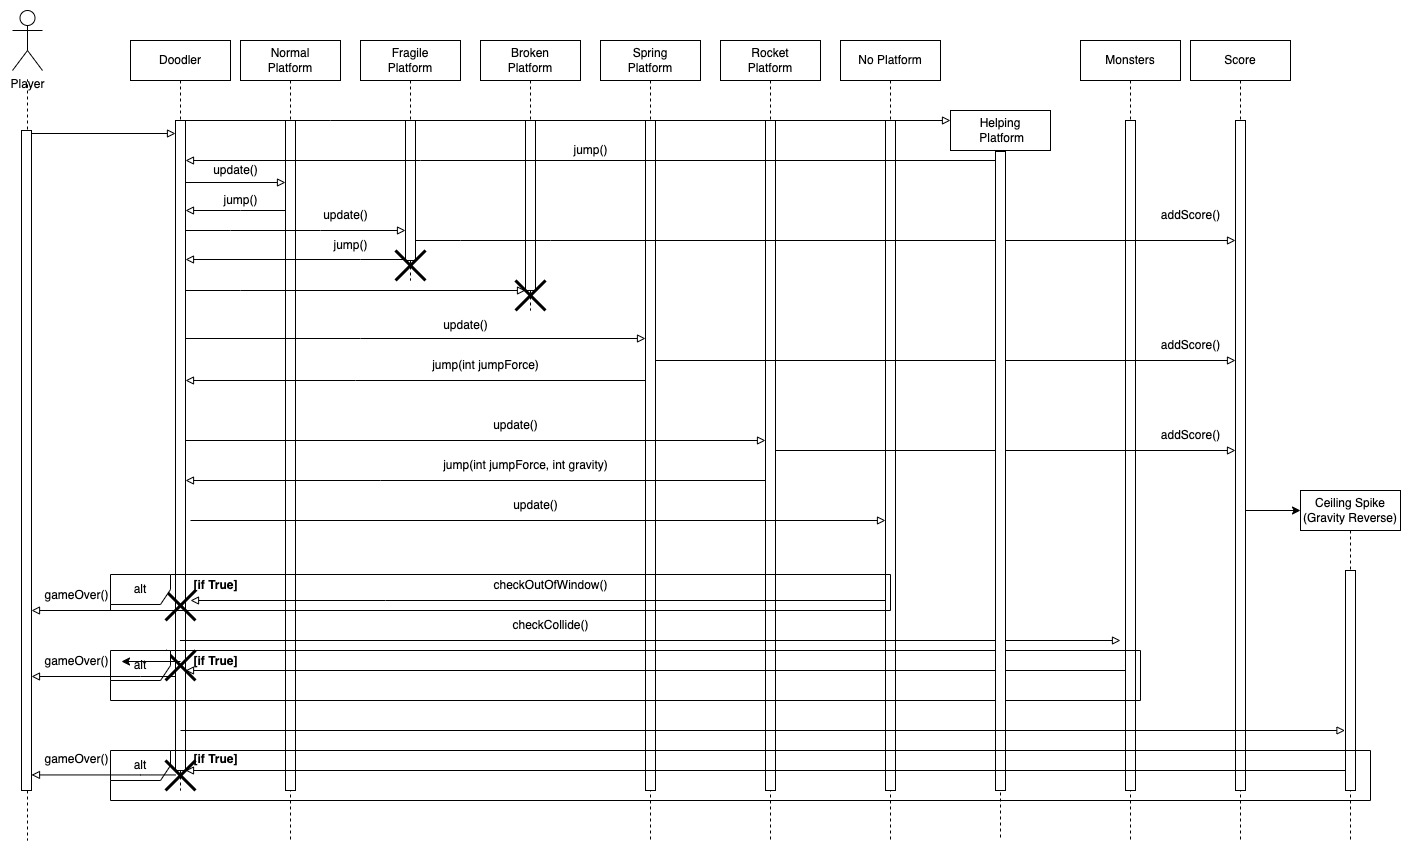
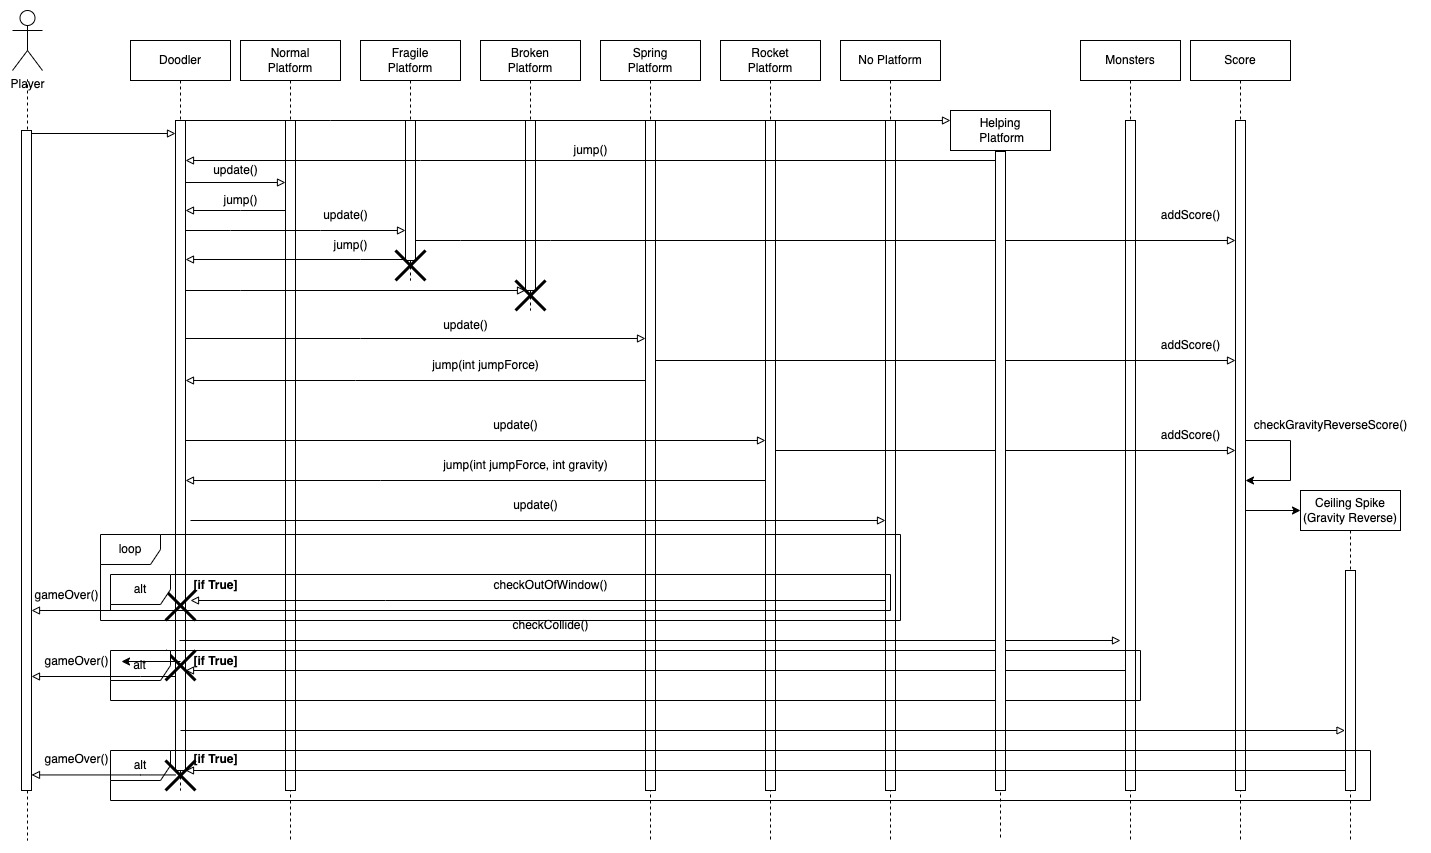
added design part of report

diff --git a/README.md b/README.md
@@ -57,15 +57,59 @@ Overall, the early stages of design were crucial in helping us to refine our gam
 
 # Design
 
+## System Architecture
+The game’s architecture consists of three main components: the Game Manager, User Interface, and the Game Elements. These components work together to create a cohesive and engaging gaming experience.
+
+<strong>Game Manager</strong>
+<br>
+Our "main" file acts as a Game Manager. The Game Manager is responsible for managing the overall game flow, including updating the game state, generating new game elements, and handling user input. It plays a crucial role in ensuring that the game runs smoothly and responds to user actions in a timely and appropriate manner.
+
+For user input, we decided to use the left and right arrow keys as the main moving keys, as they are more intuitive than other options. Additionally, the 'z' key can be used to spawn a helping platform under the Doodler, and the 'space' key can be used to restart the game when it's game over. These user inputs are carefully chosen to provide a seamless and enjoyable gaming experience.
+
+<strong>User Interface</strong>
+<br>
+We have five classes as our user interface components: start page, setting window, help window, pause window, and end page. The User Interface is designed to be easy to use and visually appealing, providing a seamless and enjoyable gaming experience for the user.
+
+While acting as game manager, the "main" also plays a role in rendering the main game screen, which displays the player's score, as well as buttons for pausing the game. The start page consists of a help window button and a setting window button at the left and right top corner, respectively. It displays the game's title, choices of character, and a start button. The help window provides instructions for users to understand the game, while users can choose level difficulty and switch to 2-player mode in the setting window. In the end page, the final score is shown in single player mode, whereas in two-player mode, the winner is shown.
+
+<strong>Game Elements</strong>
+<br>
+The Game Elements component includes all of the game objects, such as Doodler, monsters, and platforms. Each of these game elements is implemented as a separate class, with its own set of properties and methods. These elements are carefully designed to be visually appealing and challenging, providing a fun and engaging gaming experience for the user.
+
+The Doodler is the main character of the game, and is designed to be easy to control and visually appealing. The monsters and platforms provide a challenging obstacle for the Doodler to overcome, adding an element of excitement and difficulty to the game.
+
+## Class Diagram
+
 <figure>
   <img src="static/DoodleJump_class_diagram_2.jpg" alt="class diagram" style="width:100%">
   <figcaption>Class Diagram</figcaption>
 </figure>
 
+To create a clear and organized system for Doodle Jump, we've designed a class diagram that includes different pages and windows as classes to help players navigate and understand the game.
+
+First, we have the Start Page class, which players see when they open the game. This class allows players to choose their character and provides access to two auxiliary windows: the Setting Window and the Help Window. The Setting Window allows players to adjust the number of players and difficulty level, while the Help Window provides guidance on how to play the game. These pages are designed to enhance user control and freedom.
+
+During gameplay, there are four important classes: Doodle, Platform, Equipment, and Monster. The objective is to help the Doodle jump as high as possible, while avoiding falling off the screen or colliding with monsters. Equipments can help the Doodle jump higher and gain points more efficiently, but can also lead to collisions with monsters. To implement these features, we've designed three interactions: Doodle & Platform, Doodle & Equipment, and Doodle & Monster.
+
+When the Doodle touches a platform, it can jump to a specific level. When it touches equipment, it can jump higher, but must avoid colliding with monsters. In addition, three twists have been incorporated to change the gameplay slightly. The first twist is the Two-Player Mode, where players try to jump higher than each other, while avoiding monsters. The second twist is the Gravity Reverse Mode, where the objective is to move down the stairs without jumping on platforms, while avoiding spikes on the ceiling. Finally, the Helping Platform Mechanism allows players to generate a platform just below the Doodle under specific conditions, to save it from falling off the screen.
+
+Lastly, the End Page class appears only when the game is over. Here, players can choose to start a new game or exit the game. Additionally, a Pause Window will appear if the player pauses the game, informing them of their paused status. By organizing the game into different windows and pages, we've created a clear and intuitive system for players to navigate and understand Doodle Jump.
+
+
+## Sequence Diagram
+
 <figure>
   <img src="static/doodle_jump_sequence_diagram.jpg" alt="sequence diagram" style="width:100%">
   <figcaption>Sequence Diagram</figcaption>
 </figure>
+
+Above is the sequence diagram for our game. The sequence diagram shows the interactions between the different components of the game, including the player, the platforms, the monsters, and the score system. First of all, the game generates various types of platforms randomly, including normal, fragile, broken, spring, and rocket platforms. Each platform provides different feedback to the doodler based on its characteristics.
+
+When the player moves the doodler to the left or right, the doodler can land on a platform, and the platform will provide feedback to the doodler. The normal platform and fragile platform both return the "jump" feedback, but the fragile platform will disappear at the same time. On the other hand, the broken platform will not provide any feedback but disappear when the doodler interacts with it. The spring platform and rocket platform provide different types of jumps. The spring platform helps the doodler to jump higher, while the rocket reduces gravity, allowing the doodler to fly.
+In addition to the different types of platforms, there are also empty areas where there are no platforms for the doodler to land on. When this happens, the game constantly checks whether the doodler is out of the window. If the doodler is out of the window, the game is over. Furthermore, monsters will appear at random times, intervals, and places. If the doodler touches a monster, the game is also over.
+
+If the player is good enough to reach a certain score, a gravity reverse is triggered, causing the player to go down instead of jumping to avoid touching the ceiling spike. If the doodler touches the ceiling spike, the game is over.
+
 
 
 <!-- ### [Class Diagram](https://app.diagrams.net/#G1eO5WRYrhPcYVJps2LNeKAyVoR5l_IiGF)
